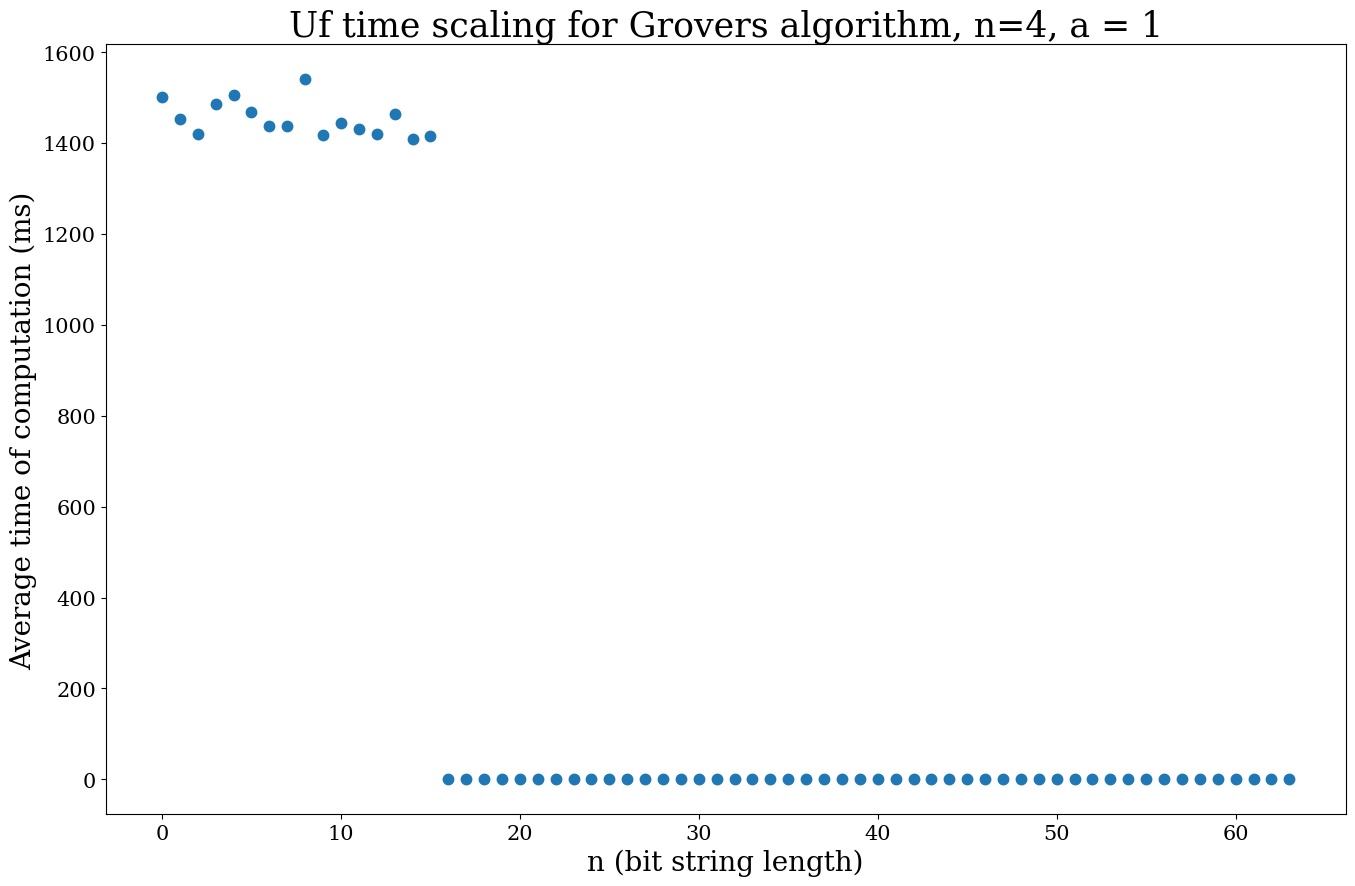
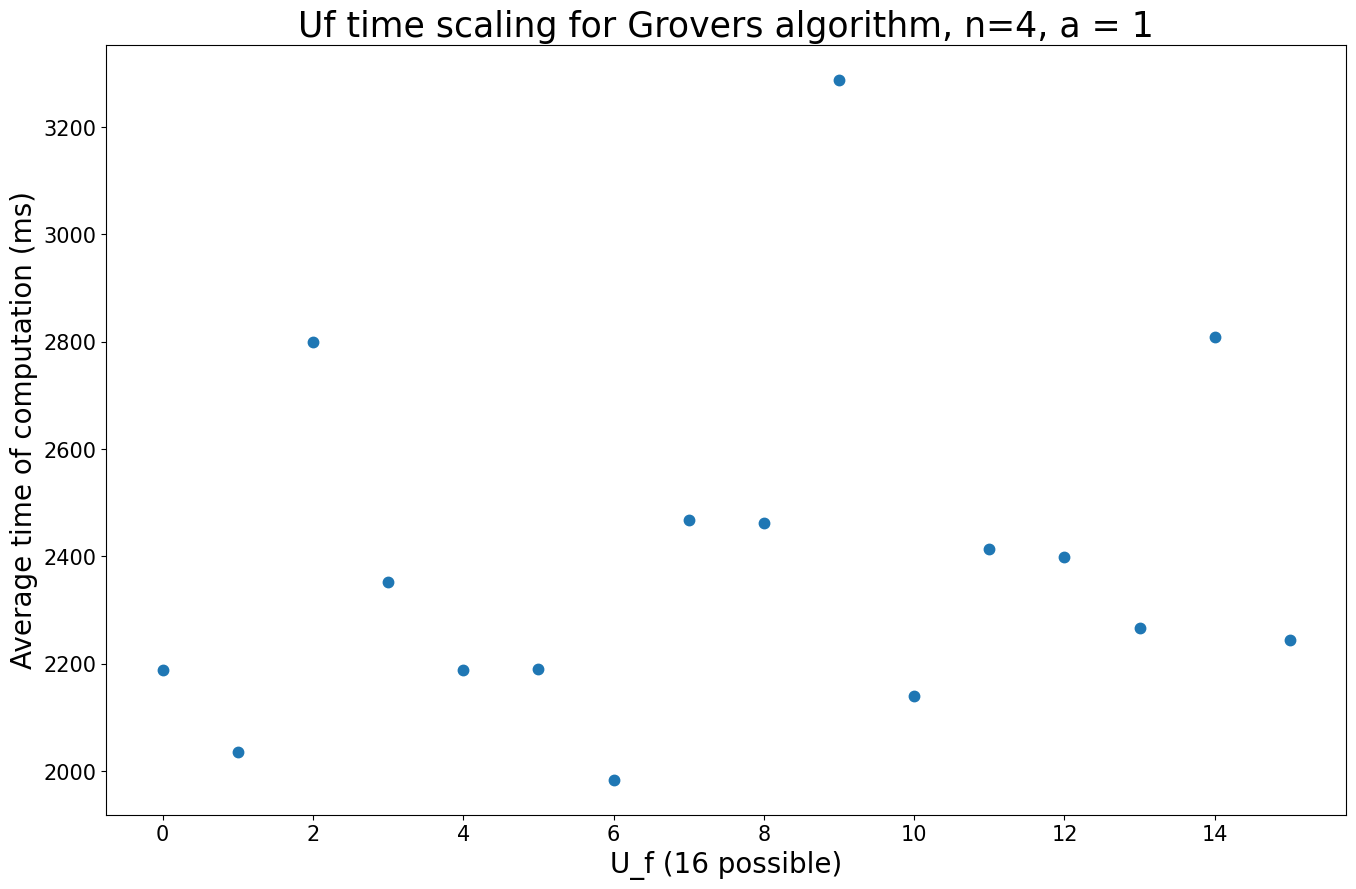
fixed minor errors with figures and commented code

diff --git a/attiano/grover.py b/attiano/grover.py
@@ -14,14 +14,14 @@ import matplotlib.pyplot as plt
 def convert_n_bit_string_to_int(x,n):
 	"""
 	inputs: x - array of ints that represents an unsigned bit string
-			n is the number of bits
-	
+		n is the number of bits
+
 	outputs: integer corresponding to x's unsigned value
 	"""
-		integ = 0
-		for idx, val in enumerate(x):
-			integ += val*2^(n-idx-1)
-		return int(integ)
+	integ = 0
+	for idx, val in enumerate(x):
+		integ += val*2^(n-idx-1)
+	return int(integ)
 
 
 def check_correctness(func,result):
@@ -240,8 +240,9 @@ if __name__== '__main__':
 			compile_times[ind, iter_ind] = avg_compile/len(all)
 			
 	#testing for uf computation time at a fixed n
-	input_list = list(range(64)) #64 is (4 qubits choose 2) -> 2^4 choose 2 -> number of possible functions with a=2
-	uf_compute_times = np.zeros([64,num_times])
+	num_funcs = 16 #64 is (4 qubits choose 1) -> 2^4 choose 1 -> number of possible functions with a=2
+	input_list = list(range(num_funcs))
+	uf_compute_times = np.zeros([num_funcs,num_times])
 	for iter_ind in range(num_times):
 		a = 1
 		n = 4
@@ -322,7 +323,7 @@ if __name__== '__main__':
 	
 	plt.plot(input_list, uf_compute_times, ls = '', markersize = 15, marker = '.',label = 'M') #, ls = '--'
 	plt.title('Uf time scaling for Grovers algorithm, n=4, a = 1', fontsize=25)
-	plt.xlabel('n (bit string length)',fontsize=20)
+	plt.xlabel('U_f (16 possible funcs)',fontsize=20)
 	plt.ylabel('Average time of computation (ms)',fontsize=20)
 	plt.xticks(fontsize=15)
 	plt.yticks(fontsize=15)
